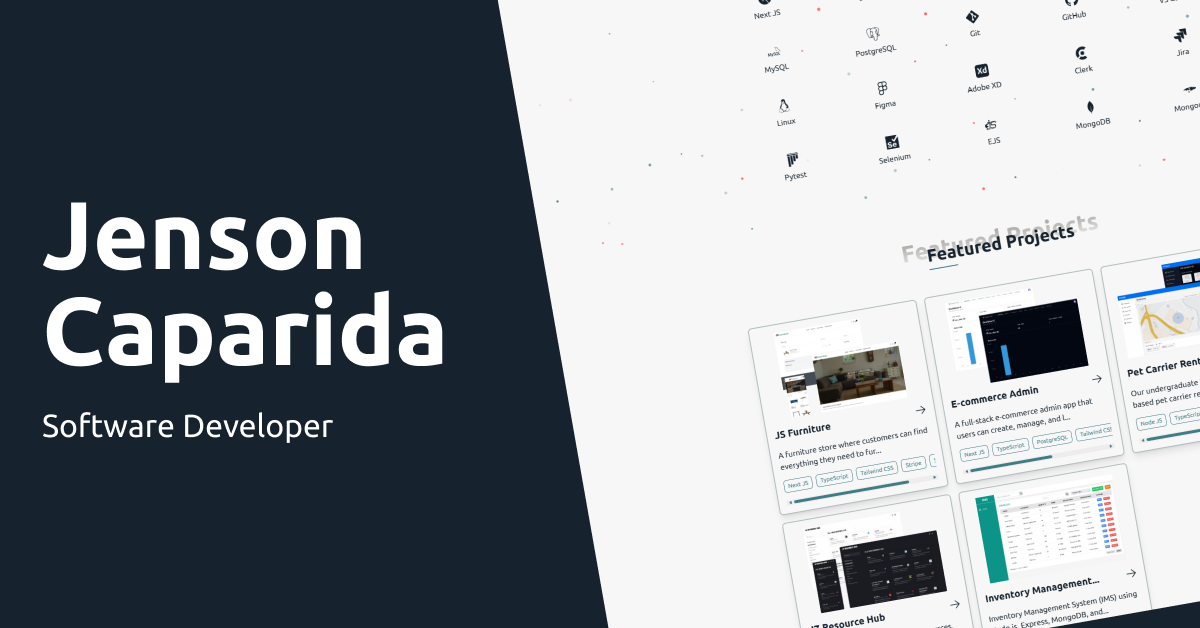
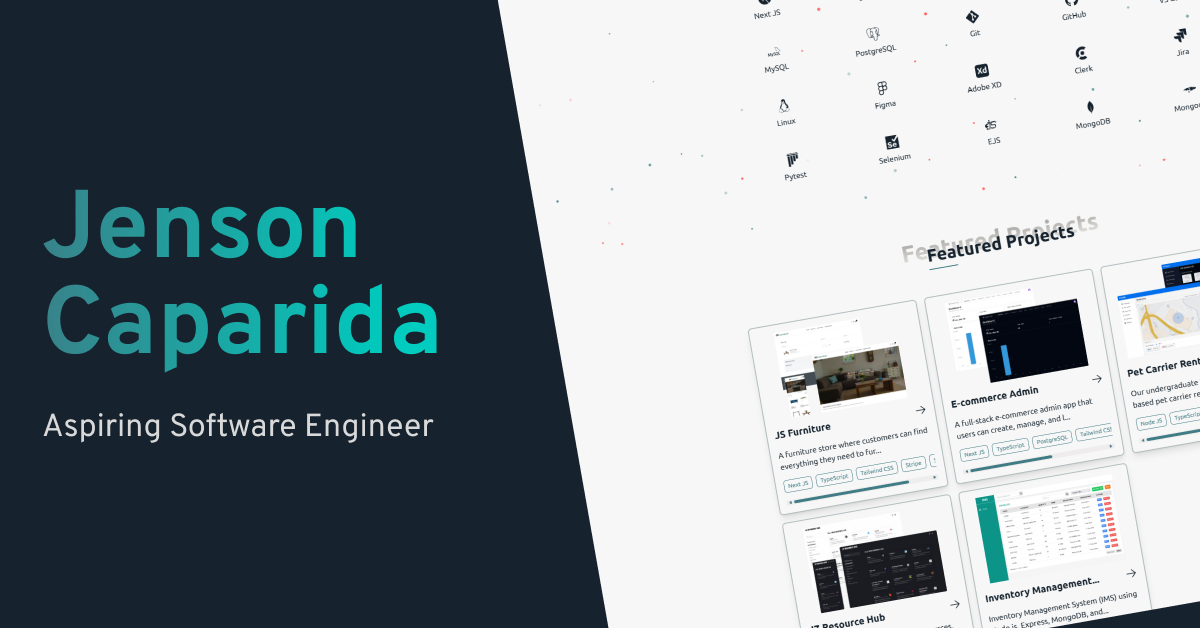
updt: changing position and updated resume

Changed region(s): [[0.0308, 0.3025, 0.37, 0.6051], [0.0308, 0.6354, 0.37, 0.6959]]

diff --git a/src/app/(home)/section/about.tsx b/src/app/(home)/section/about.tsx
@@ -125,13 +125,14 @@ const ProfileContent = () => {
       </motion.div>
       <div className="space-y-4 text-justify">
         <motion.div variants={profileContentChildVariants}>
-          🌟 An aspiring software developer from the Philippines with a strong
-          passion for learning and creating seamlessly interactive applications.
+          🌟 An aspiring Software Engineer from the Philippines with a strong
+          passion for learning, designing and creating seamlessly interactive
+          applications.
         </motion.div>
         <motion.div variants={profileContentChildVariants}>
-          🎓 I graduated at Technological University of the Philippines in
-          Cavite, Philippines with a Bachelor of Engineering Technology degree
-          with a major in Computer Engineering Technology.
+          🎓 I am graduating student at Technological University of the
+          Philippines in Cavite, Philippines with a Bachelor of Engineering
+          Technology degree with a major in Computer Engineering Technology.
         </motion.div>
         <motion.div variants={profileContentChildVariants}>
           💻I am concentrating and expanding my expertise on software

diff --git a/src/app/layout.tsx b/src/app/layout.tsx
@@ -14,12 +14,19 @@ export const metadata: Metadata = {
     template: '%s | Jenson Caparida',
     default: 'Jenson Caparida',
   },
-  description: 'An aspiring Software Developer from Philippines.',
-  keywords: ['jenson caparida', 'jenzone', 'portfolio', 'software development'],
+  description: 'An aspiring Software Engineer from Philippines.',
+  keywords: [
+    'jenson caparida',
+    'jenzone',
+    'portfolio',
+    'software engineer',
+    'software developer',
+    'software development',
+  ],
   metadataBase: new URL('https://jensoncaparida.me'),
   openGraph: {
     title: 'Jenson Caparida',
-    description: 'An aspiring Software Developer from Philippines.',
+    description: 'An aspiring Software Engineer from the Philippines.',
     type: 'website',
     url: 'https://jensoncaparida.me',
     images: ['/meta-card.png'],
@@ -27,7 +34,7 @@ export const metadata: Metadata = {
   twitter: {
     card: 'summary_large_image',
     title: 'Jenson Caparida',
-    description: 'An aspiring Software Developer from Philippines.',
+    description: 'An aspiring Software Engineer from the Philippines.',
     images: ['/meta-card.png'],
   },
 }
